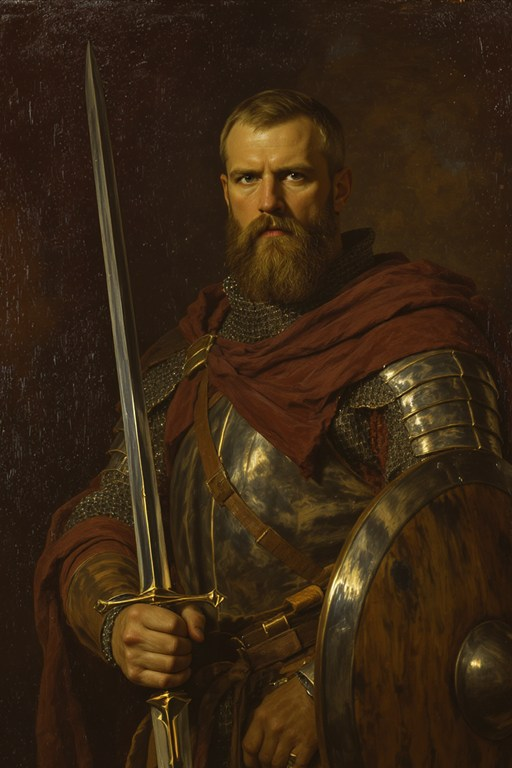
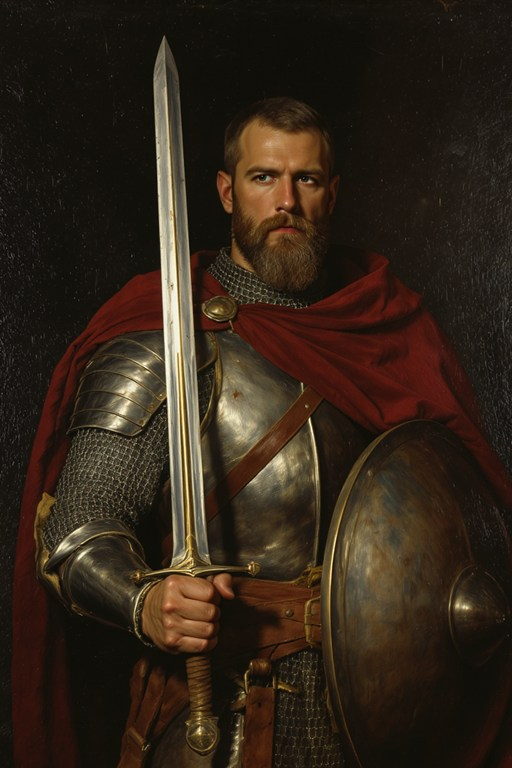
Brown parchment world map and the male warrior's sword hilt (owner)
The map kind now asks for tea-stained brown parchment with burnt edges, like the
world maps of fantasy RPGs; the place marks follow the new drawing. The male
warrior holds his sword by the handle above a round pommel, like the female one.

diff --git a/Tools/ArtGen/Program.cs b/Tools/ArtGen/Program.cs
@@ -102,8 +102,10 @@ static class Style
                 "aged gold, bronze, dark leather and parchment, fine engraving, soft painted highlights, rich but restrained. Flat front view, perfectly symmetrical, " +
                 $"centred, isolated on a plain pure black background, nothing else in the picture. {NoText}",
         // the region map came out as a tilted relief with tall cliffs (owner 2026-10-25: more like a fantasy map): flat, inked, from above
-        "map" => $"Subject: {subject} Style: a hand-drawn fantasy map in the tradition of the maps printed at the front of classic fantasy novels: " +
-                 "drawn completely flat from directly above like a page in a book, fine pen-and-ink linework with soft muted watercolour washes on aged parchment; " +
+        // the first flat map came out pale cream (owner 2026-10-25: more parchment, a little brown, like the world maps of fantasy RPGs)
+        "map" => $"Subject: {subject} Style: a hand-drawn world map in the tradition of classic fantasy role-playing games and the maps printed at the front of fantasy novels: " +
+                 "drawn completely flat from directly above on old, deeply aged, tea-stained brown parchment with darker mottled stains and softly burnt, darkened edges, " +
+                 "warm sepia and dark brown ink linework with soft hand-coloured washes of muted green, ochre and slate blue; " +
                  "mountains, hills, forests and towns drawn as small inked pictograms, the sea shown with gentle wave lines and hatching along the coastline, " +
                  $"land and sea lying on the same flat page with no relief, no cliffs, no perspective and no three-dimensional terrain. {NoText}",
         "creature" => $"Subject: {subject} Style: {Bible} The creature is fully visible and centred, nothing important touches the edges. {Anatomy} {NoText}",

diff --git a/Docs/art/generation-log.md b/Docs/art/generation-log.md
@@ -9,3 +9,4 @@
 | 2026-10-24 | 段 7 の足りない絵: 新しい敵（衛兵・衛兵隊長・暗殺者）× 2 案（暗殺者は署名の跡で 2 案を追加）、物語の人物に合う立ち絵 12 人 × 3 案（`Tools/ArtGen/jobs/stage7.json`） | fal.ai Kontext Pro | 44 | 約 1.76 ドル | 選んだ案: 衛兵 1・衛兵隊長 1・暗殺者 3・傭兵（男）3・役人 1・毛皮商人 1・吟遊詩人 1・女魔術師 1・助祭 3・女鍛冶 1・宿の主人 1・老婆 1・墓守 1・捕まった賊 1・盗賊ギルドの女 1。44 枚のうち 13 枚に署名のような跡（右下・左下）があり、下の端を拡大して確かめて外した |
 | 2026-10-24 | 仮絵の描き直し（`Tools/ArtGen/jobs/redraw.json`、73 件 × 2 案。途中で残高切れ → オーナーが 10 ドル入金して再開） | fal.ai Kontext Pro | 約 150（失敗 6 を含む）＋場所の絵の試し 4 ＋白い飛竜ほか 6 | 約 6.4 ドル | 敵 22・冒険者 8・立ち絵 15 を差し替え。どれも下の端に署名のような走り書きが多く出たので、取り込みで下を 11% 切った（`import --trim-bottom 0.11`）。飛竜は「白牙」に合わせて白で描き直した。**場所の絵 28 枚は差し替えない**: 共通の画風（くすんだ色・暗い縁・画布の質感）で場所を描くと、どれも暗い茶色の靄になり、今の絵より見劣りした。場所だけ明るい画風（`Style.SceneBible`）も試したが、まだ今の絵に及ばない。船倉は 2 案とも検閲で止まった |
 | 2026-10-25 | オーナーの検品（挿絵帳の印 18 枚）の直し（`Tools/ArtGen/jobs/review1.json`・`review2.json`）。人物と敵 3 案、場所 2 案、地図 3 案。2 回目は地図・ハーピー・女戦士の 3 件 × 3 案（女戦士は 1 回検閲で止まり、言い換えて通った） | fal.ai Kontext Pro | 51 ＋ 9（止められた 3 を除く） | 約 2.4 ドル | 選んだ案: 地図 21（2 回目。ほかの 5 案はどれも偽の地名が入った）・分かれ道 12・隠れ賭場 11（新しい `bg_den`。賭場と隠れ酒場が下水道の絵だったので）・酒場 11・動く甲冑 12・山賊 12・骨の騎士 12・ゴブリン 12・衛兵隊長 12・ハーピー 22（2 回目。1 回目は 3 案とも鳥の頭）・大蛇 12・トロル 13・魔女 13・魔法使い女 12・盗賊男 12・戦士女 25（2 回目。1 回目は 3 案とも刃を握っていた）・戦士男 13・猟師 11。剣は「柄を握る手が鍔の下」「盾と反対の手」を書くと直った。人物と敵は下を 11% 切って取り込み |
+| 2026-10-25 | オーナーの追加の指摘: 戦士・男の剣の柄、地図をもっと羊皮紙で茶色っぽく（ファンタジー RPG の世界地図のように）。`Tools/ArtGen/jobs/review3a.json`・`review3b.json`。地図は 2 通りの指示 × 3 案、戦士は 3 案 × 2 回（2 回目は「fist」で 3 案とも検閲に止まり、言い換えた） | fal.ai Kontext Pro | 地図 6 ＋ 戦士 6 | 約 0.5 ドル | 地図 34（焦げた縁の茶色い羊皮紙、文字なし。33 は方位の N だけ、31・32・35・36 は偽の文字）。戦士 37（柄の下に丸い柄頭。31 は刃を握り、32 は両端が刃、33・39 は柄の下にも刃、38 は両手で剣） |

diff --git a/Docs/art/style-guide.md b/Docs/art/style-guide.md
@@ -24,7 +24,7 @@
 | 種類 | `kind` | 縦横 | 決まり |
 |---|---|---|---|
 | 場所の背景 | `scene` | 16:9 | 人物を描かない（「An empty scene with no figures.」）。画面の中央下は敵や NPC の立ち絵が重なるので、主な見どころは奥と左右に |
-| 地方の地図 | `map` | 16:9 | 小説の巻頭の地図のように、真上から平らに描いたペン画と淡い水彩。山や森は小さな記号で、崖や立体の起伏を描かない。偽の地名がよく入るので「文字のない絵だけの地図」と念を押し、検品で必ず確かめる |
+| 地方の地図 | `map` | 16:9 | ファンタジー RPG の世界地図や小説の巻頭の地図のように、焦げた縁の茶色い古い羊皮紙に、真上から平らに描いたペン画と淡い彩色（オーナー 2026-10-25）。山や森は小さな記号で、崖や立体の起伏を描かない。偽の地名がよく入るので「文字のない絵だけの地図」と念を押し、検品で必ず確かめる |
 | 立ち絵（語り部・NPC） | `portrait` | 2:3 | 腰上か全身。顔に光を当てる。背景は暗く柔らかく（ゲームでは場面の背景に重ねる） |
 | 敵 | `creature` | 2:3 | 全身が画面に収まり、端に触れない |
 | 技のカード | `card` | 2:3 | 効果の一瞬を描く（炎・光・剣の軌跡）。人物は脇役か後ろ姿 |
